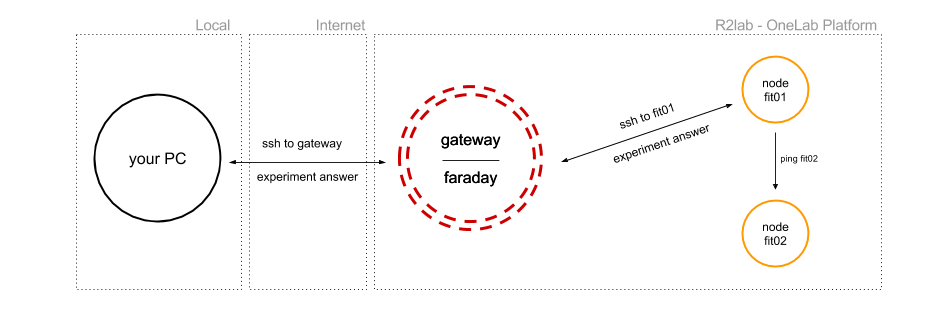
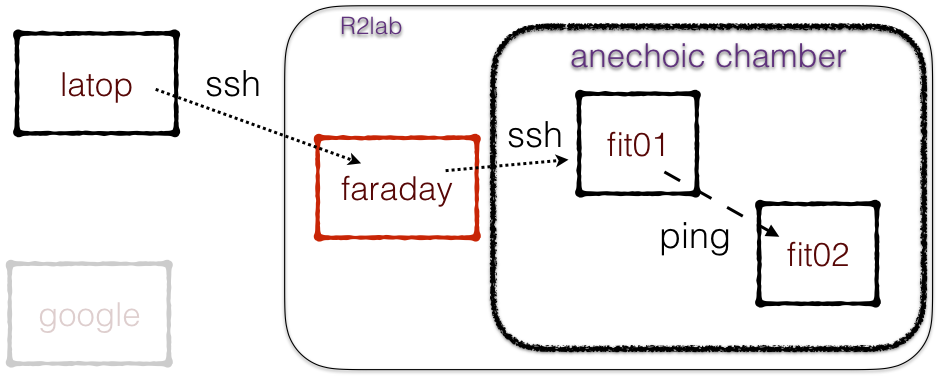
minor tweaks - updated the figures in the A series

diff --git a/templates/r2lab/tutos-index.html b/templates/r2lab/tutos-index.html
@@ -8,7 +8,7 @@
       <li><a href="tuto-200-shell-tools.md">Shell tools in the gateway</a></li>
         <li role="separator" class="divider"></li>
       <li><a href="tuto-300-nepi-ng-install.md"><code>nepi-ng</code> install</a></li>
-      <li><a href="tuto-400-ping.md"><code>nepi-ng</code> ping (<span class="bold">A</span> series)</a></li>
+      <li><a href="tuto-400-ping.md"><code>nepi-ng</code> basics (<span class="bold">A</span> series)</a></li>
       <li><a href="tuto-500-wireless.md"><code>nepi-ng</code> wireless (<span class="bold">B</span> series)</a></li>
       <li><a href="tuto-600-files.md"><code>nepi-ng</code> file exchange (<span class="bold">C</span> series)</a></li>
       <li><a href="tuto-700-miscell.md"><code>nepi-ng</code> miscellaneous</a></li>

diff --git a/code/A5-ping.py b/code/A5-ping.py
@@ -46,7 +46,7 @@ check_lease = SshJob(
 init_node_01 = SshJob(node = node1, command = Run("turn-on-data"), required = check_lease)
 init_node_02 = SshJob(node = node2, command = Run("turn-on-data"), required = check_lease)
 
-# the command we want to run in faraday is as simple as it gets
+# the command we want to run in node1 is as simple as it gets
 ping = SshJob(
     node = node1,
     # no need to wait for check_release, since both init_node jobs already do

diff --git a/code/A3-ping.py b/code/A3-ping.py
@@ -32,7 +32,7 @@ node1 = SshNode(gateway = faraday, hostname = "fit01", username = "root",
                 verbose = verbose_ssh)
 
 ##########
-# the command we want to run in faraday is as simple as it gets
+# the command we want to run in node1 is as simple as it gets
 ping = SshJob(
     node = node1,
     # let's be more specific about what to run

diff --git a/code/A4-ping.py b/code/A4-ping.py
@@ -40,7 +40,7 @@ check_lease = SshJob(
     command = Run("rhubarbe leases --check"),
 )
 
-# the command we want to run in faraday is as simple as it gets
+# the command we want to run in node1 is as simple as it gets
 ping = SshJob(
     node = node1,
     # this says that we wait for check_lease to finish before we start ping

diff --git a/markdown/tuto-400-ping.md b/markdown/tuto-400-ping.md
@@ -286,7 +286,6 @@ gateway. It also ensures that only one ssh connection gets established
 to the gateway, regardless of the number of nodes actually controlled.
 
   <center>
-    Note - this picture is out of date<br/>
     <img src="/assets/img/A3.png" alt="a3" height="240px"><br/>
   </center>
 
